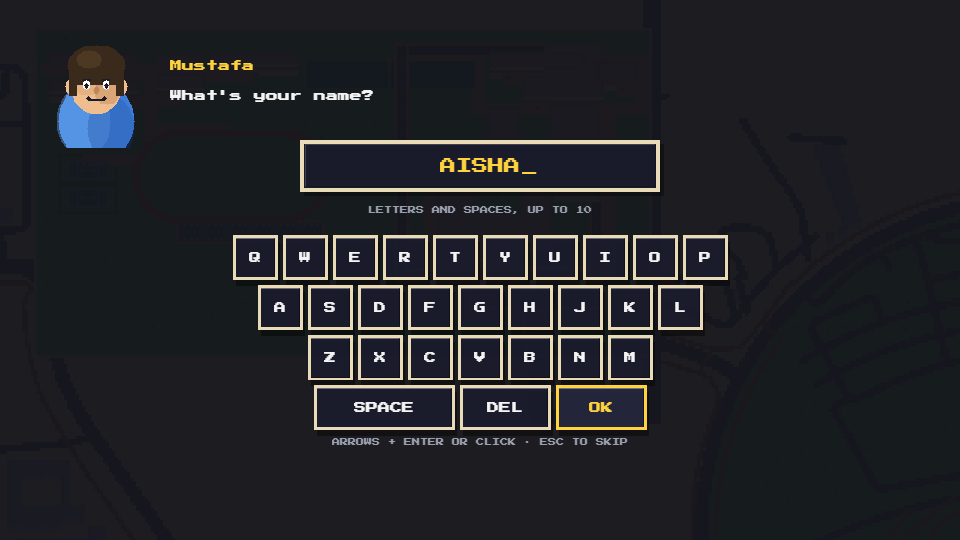
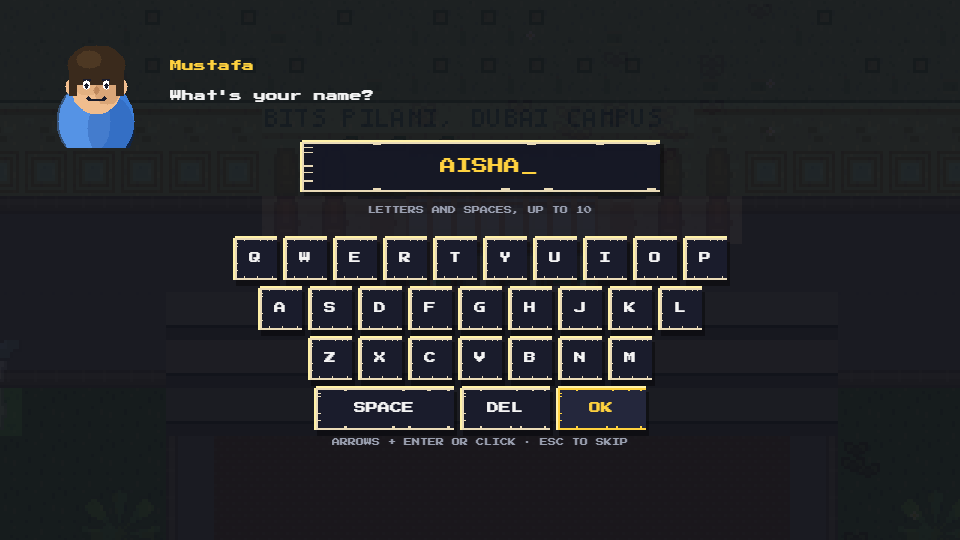
quality loop: rate Cutscenes 5 and Story flow 6 (run 1)

diff --git a/docs/quality/scorecard.md b/docs/quality/scorecard.md
@@ -10,8 +10,8 @@ building. Target: 8+ in every area.
 | 2 | Interior art | 6 | 2026-09-29 (run 4) | foyer floor tile grid a bit busy; no people besides the volunteer; stair block still plain |
 | 3 | Characters and depth | — | — | |
 | 4 | UI and menus | 7 | 2026-09-29 (run 2) | title backdrop could be brighter; re-check HUD during cutscenes in a playthrough |
-| 5 | Story flow and clarity | — | — | (owner: "I don't understand what's going on" at arrival; being rebuilt) |
-| 6 | Cutscenes | — | — | (the in-world Gate 2 beat looks good; qa:shots times out waiting for the Gate 2 script to end) |
+| 5 | Story flow and clarity | 6 | 2026-09-29 (run 1) | control returns with the objective and Mustafa present; greeting screen is a crude portrait over a dim backdrop |
+| 6 | Cutscenes | 5 | 2026-09-29 (run 1) | bus is a side-view picture on a top-down road; Mustafa portrait crude; Physics Lab beat shows rainbow glitch sprites |
 | 7 | Mini-games | — | — | |
 | 8 | Audio | — | — | |
 | 9 | Game feel and polish | — | — | |
@@ -21,6 +21,13 @@ building. Target: 8+ in every area.
 ## Log
 
 <!-- newest first: date, category, scores per area, what was fixed -->
+### 2026-09-29 — Cutscenes (run 1) — 5, Story flow (run 1) — 6
+From `npm run qa:shots:intro` (docs/research/premium-pass/cutscenes/01-12).
+- **Greeting (3):** Mustafa's portrait is crude (a round blob face in a box); the live backdrop behind it is very dark.
+- **Bus arrival (4):** the bus is a side-profile picture (wheels at the bottom) placed on a top-down road; perspective clash.
+- **Mustafa meets her (7):** in-world at Gate 2, letterboxed, HUD hidden, clear dialog. Good.
+- **Control returns (6):** objective pill + banner + Mustafa standing by; clear enough.
+- **Physics Lab beat (4):** letterbox + line work, but the benches show rainbow-coloured glitch sprites (a bad tile crop).
 ### 2026-09-29 — Run 4 re-rate: Outdoor 7, Interior 6, UI 7, Card 7
 - **Outdoor (7, was 6):** the Main Block now matches the photo: full "BITS PILANI, DUBAI CAMPUS" sign, the tall mullioned glass front, light stone steps, a real red-paver forecourt, palms either side, the banner no longer covering the sign. Palms look noisy/dithered; no people.
 - **Interior (6, was 5):** round shaded columns, a tiered gold chandelier, a rug, a reception desk, proper plant pots. The floor tile grid is a little busy; the stair block is plain; it's empty of people.
